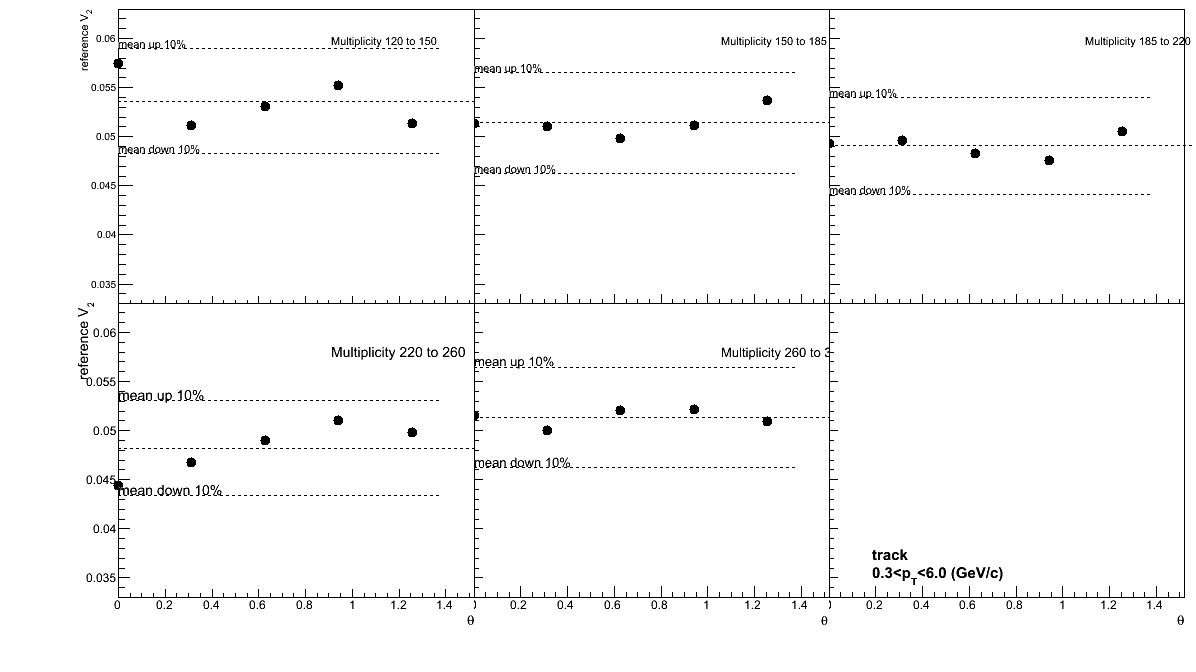
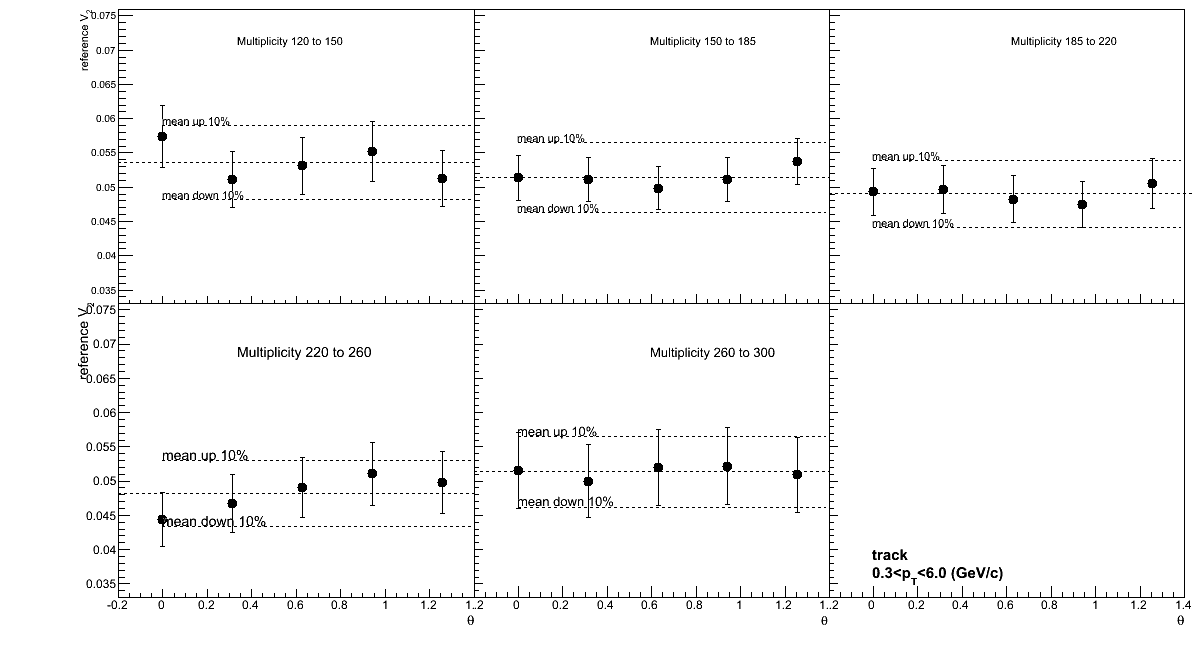
final bins 5

diff --git a/flow/LYZ/v2/tracknormcpt03to6/plotV2vstheta.C b/flow/LYZ/v2/tracknormcpt03to6/plotV2vstheta.C
@@ -15,16 +15,16 @@ void plotV2vstheta(){
         gStyle->SetOptStat(0);
         gStyle->SetOptTitle(0);
         gStyle->SetErrorX(0);
-        TH1D *hFrame = new TH1D("","",100,0,2);
+        TH1D *hFrame = new TH1D("","",220,-0.2,2);
         hFrame->SetTitle("");
         hFrame->GetXaxis()->SetTitle("#theta");
         hFrame->GetYaxis()->SetTitle("reference V_{2}");
         hFrame->GetYaxis()->SetTitleOffset(1.1);
         hFrame->GetXaxis()->SetTitleSize(0.04);
         hFrame->GetYaxis()->SetTitleSize(0.04);
-        hFrame->GetXaxis()->SetRangeUser(0,1.5);
+        hFrame->GetXaxis()->SetRangeUser(-0.2,1.4);
         hFrame->SetMinimum(0.033);
-        hFrame->SetMaximum(0.063);
+        hFrame->SetMaximum(0.076);
         for(int trkbin=0;trkbin<ntotbin; trkbin++){
 	if(isSum==0){
 	    f = TFile::Open(Form("M%d%d/mergedV_Prod.root",trkpointmax[trkbin],trkpointmin[trkbin]));
@@ -32,11 +32,13 @@ void plotV2vstheta(){
 	else{
 	    f = TFile::Open(Form("M%d%d/mergedV_Sum.root",trkpointmax[trkbin],trkpointmin[trkbin]));
 	}
-	TVectorD* vecVmean = (TVectorD*)f->Get(Form("D_%d/Vmean",xbin));
-        TVectorD* vecV = (TVectorD*)f->Get(Form("D_%d/D_0/V",xbin));
+	TVectorD* vecVmean = (TVectorD*)f->Get(Form("Vmean",xbin));
+        TVectorD* vecV = (TVectorD*)f->Get(Form("D_%d/V",xbin));
+        TVectorD* vecdeltaV = (TVectorD*)f->Get(Form("D_%d/deltaV",xbin));
 
         double Vmean = (*vecVmean)[0];
         double *V = vecV->GetMatrixArray();
+        double *deltaV = vecdeltaV->GetMatrixArray();
         double theta[ntheta];
         for(int itheta=0;itheta<ntheta;itheta++){
             theta[itheta]=itheta*TMath::Pi()/ntheta/nn;
@@ -45,7 +47,7 @@ void plotV2vstheta(){
         double maxper = (double)(maxper10+1)/10;
         c1->cd(trkbin+1);
         hFrame->Draw();
-        TGraph *gV2theta = new TGraph(ntheta,theta,V);
+        TGraphErrors *gV2theta = new TGraphErrors(ntheta,theta,V,0,deltaV);
         gV2theta->SetMarkerStyle(20);
         gV2theta->SetMarkerSize(1.3);
         gV2theta->SetMarkerColor(1);
@@ -68,7 +70,7 @@ void plotV2vstheta(){
         tl->DrawLatex(0,Vmean*(1+maxper),Form("mean up %.f%%",maxper*100));
         tl->DrawLatex(0,Vmean*(1-maxper),Form("mean down %.f%%",maxper*100));
         tl->SetNDC();
-        tl->DrawLatex(0.7,0.85,Form("Multiplicity %d to %d",trkpointmin[trkbin],trkpointmax[trkbin]));
+        tl->DrawLatex(0.5,0.85,Form("Multiplicity %d to %d",trkpointmin[trkbin],trkpointmax[trkbin]));
         l->Draw("same");
         lup->Draw("same");
         ldown->Draw("same");
